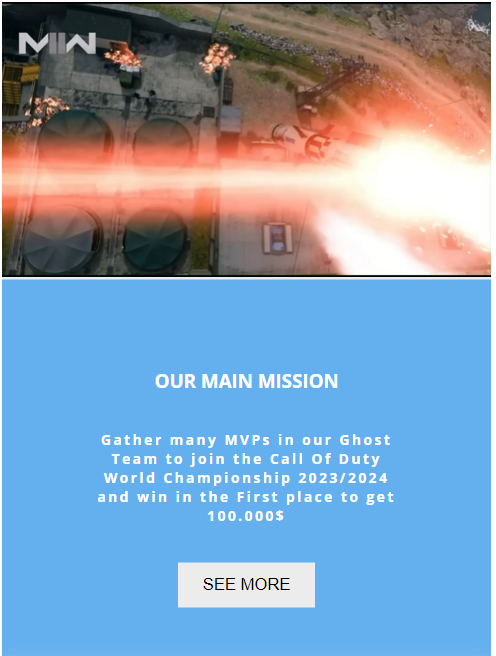
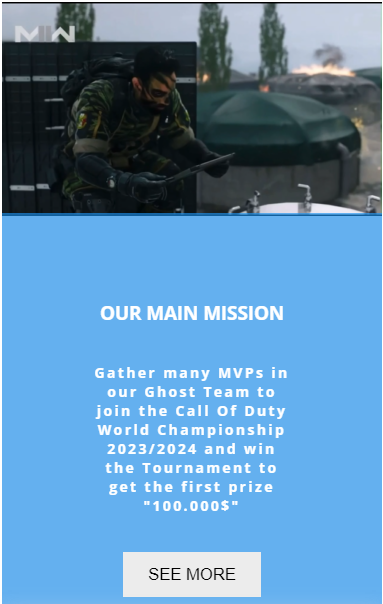
Edit in Mission page text, Edit readme file and add photos to readme-images file

diff --git a/missions.html b/missions.html
@@ -45,8 +45,8 @@
                 or below the video on small screens -->
         <div class="missions-text">
             <h2>our main mission</h2>
-            <p>Gather many MVPs in our Ghost Team to join the Call Of Duty World Championship 2023/2024 and win in
-                the First place to get 100.000$</p>
+            <p>Gather many MVPs in our Ghost Team to join the Call Of Duty World Championship 2023/2024 and win the Tournament
+                to get the first prize "100.000$"</p>
             <button onclick="alert('Thank You for Your Interaction!')">See More</button>
         </div>
     </section>

diff --git a/README.md b/README.md
@@ -1,11 +1,11 @@
-<h1 align="center"> Ghost Team Website!, Call Of Duty Game </h1>
-Ghost Team is a a real Team in Call of Duty Game, Germany. The Team has been a big part of Call of Duty World championships for many years, Also provides Most Valuable Players (MVPs) for all Call Of Duty events around the world.
+<h1 align="center">&#127918; Ghost Call Of Duty Team Website &#127918;</h1>
+Ghost Team is a real Team in Call of Duty game, Germany. The Team has been participating in all Call of Duty world championships for many years, Also it provides Most Valuable Players (MVPs) for all Call Of Duty events around the world.
 
-The intent of the website is to provides valuable information about Call of Duty Game to all players and COD lovers around the world, And last but not least, push the most valuable players to join Ghost team.
+The aim of the website is to provide valuable information about Call of Duty game to all players and COD lovers around the world, And last but not least, push the MVPs to join Ghost team.
 
 ![Site view across devices](assets/readme-images/ghost-team-responsive.png)
 
-The Ghost Team site is live, the link to which can be found by [CLICK HERE](https://alakeldev.github.io/ghost-cod-team-website-pp1/)
+The Ghost Team site is live, please [CLICK HERE](https://alakeldev.github.io/ghost-cod-team-website-pp1/) to check the website.
 
 ## Tabel of Contents
 - [Tabel of Contents](#tabel-of-contents)
@@ -46,37 +46,38 @@ The Ghost Team site is live, the link to which can be found by [CLICK HERE](http
 ## UX
 
 ### Site Purpose:
-To provide information about Call Of Duty Game, its events, updates, photos to everyone who is visiting the website, also push the most valuable players to join Ghost team that already has many Legendary titles.
+To provide information about Call Of Duty Game, its events, updates and photos to anyone visiting the website. Also to attract the most valuable players to join Ghost team which has alread gained many legendary titles.
 
 ### Site Goal:
-To regularly update our current team members and also the vistors with the latest game information, also provide them with new updates and events of Call Of Duty game. We Keep users coming back to regularly check on this valuable information and later for asking to join Ghost team.
+To regularly update our current team members and also the vistors with the latest game information, also provide them with new updates and events about Call Of Duty game. We Keep users coming back in order to check for those valuable information and have them at later stage joining our Ghost team.
 
 ### Audience:
-Everyone with a love to Call Of Duty game and wants to know all news about it, also willing to attend Call Of Duty events/championships to seek out winning and titles. Your target are all COD players/lovers (women & men) ages 18-35.
+Anyone who has interest in Call Of Duty game and wants to know all news about it. Also those who are willing to attend and participate Call Of Duty events and championships. Your targets are all COD players/lovers (women & men) ages 18-35.
 
 ### Communication:
-With a clear, animated and simple design, this information is readily available to all who visit the site. the user easy knows instantly where they are because of the good and clear website structure.As I mentioned the information is readily available, without having to go through an exhaustive search.
+With a clear, animated and simple design, this information is readily available to website visitors without having them forced to go through an exhaustive search. Also the user easy knows instantly where they are because of the good and clear website structure.
 
 ### Current User Goals:
-- To check Call of Duty last updates, versions, upcoming events and championships, also asking to join Ghost team.
+- To check Call of Duty last updates, versions, upcoming events and championships.
+- looking for new professional players to join our Ghost team.
 
 ### New User Goals:
 - To navigate the site with ease, animate design, simple & clearly understand the information that is being provided.
 - For the information to be always relevant & up-to-date.
-- To be inspired by a striking with animate design that captures my immediate interest, and keeps my focus on the site.
+- To simplify for them the game and show them its unique features comparing to other games.
 
 ## Design
 
 ### Colour Scheme:
-The colour palette was created by [Coolors](https://coolors.co) with the thought to provide as much contrast as possible, without feeling overwhelming. Most of the colour is primarily provided as a simple and calm across the site. However backgrounds were generated in two main colors ( calm gray, and white ) also the text has two main colors (black, sky calm blue) but some text has a one of gray degree color such as a paragraph in landing section and white color for the text inside missions page, also using black shadows with background white or even calm gray such as with photos section in gallery page. The combination of the background color and shadow color, does not overwhelm the user but give simple and stylish feeling. Also with a feature in navigation bar elements, when the cursor hover on each element, that will change the element color from black to calm blue with a very beatiful animation line will show above and below it to bring the users immediate attention to the fact that there is something there to be clicked.
+The colour palette was created by [Coolors](https://coolors.co) with the idea to provide as much contrast as possible, without feeling overwhelming. Most of the colors are primarily provided to be simple and calm across the site. However, backgrounds were generated in two main colors(calm gray and white) also the texts have two main colors (black and sky calm blue) but the paragraph text inside the landing section is having gray, while the text inside missions page is having white color. Also i'm using black shadows with white background and sometimes with calm gray backgrounds like the photos section in gallery page as an example. The combination of the background color and shadow color, does not overwhelm the user but give simple and stylish feeling. I added a feature in navigation bar elements, so when the user hovers over each nav element then the element color will change from black to calm blue, and the background of the same element will change at the same time from white to calm gray. Also simultaneously a very beatiful animation line will show above and below the same element to draw the users attention immediately to the fact that there is something there to be clicked.
 
 ![Colour Palette](assets/readme-images/website-colors.png)
 
 ### Typography:
-Open Sans was selected for the all Website pages as this font is a very famous, simple, readable and clear, also with manipulating between letters spacing and make it bold in some places make it looking great.
+"Open Sans" was selected for the all Website pages as this font is a very famous, simple, readable and clear. also I make the some words looking great by manipulating the space between letters and by making them bold in some other places.
 
 ### Imagery:
-All the imagery on the site, was sources from free gaming stock photo platforms. some photos in gallery section were readjust the brightness, exposure, contrast and shadows to make it more clear and modern to display it.
+All the images on the site were sourced from free gaming stock photo platforms. The brightness, exposure, contrast and shadows of some photos in gallery section were adjusted to make it more clear and modern for displaying.
 
 ## Features
 
@@ -87,58 +88,58 @@ This is included across all the four pages, and provides people with an easy ref
 ![Navigation bar](assets/readme-images/nav-bar.png)
 
 #### Landing Page:
-This defines the feel of the website, providing the user with an animated image goes up and down, and beside this photo there are main title and text that they can easily associate to what the Website is & does.
+It defines the soul of the website, providing the user with an animated image goes up and down, and beside this photo there are main title and text that be can easily associated to what the Website is about.
 
 ![Landing section](assets/readme-images/landing-sec.png)
 
-The upcoming events section is listed right beneath the landing section, its title has feautre of color changing between (black, sky calm blue) to make the visitor more excited. This section is to provide visitors with full information about Call of Duty events, and give important details such as locations, date/time, also other information to give possibility to the COD players and even normal vistor the early planning to attend, for each event has such a card and small arrow on it's footer, when the vistor hover the cursor on event's card the card will moving a littel bit up and the arrow on the card bottom the will start moving till the user move the cursor out of the card, these movings give the visitor good feeling and interact with events selection and if the visitor wants to see more details about the event, easly can click on read more.
+The upcoming events section is listed right beneath the landing section, its title has feautre of color changing between (black, sky calm blue) to make the visitor more excited. This section is to provide visitors with full information about Call of Duty events, and to give important details such as locations, date/time, also other information in order to enable the COD players and even normal vistors to plane their attend early. Each event designed as a card with a small arrow on the bottom of the card so when the vistor hover the cursor on event's card the card will be moving a littel bit up and the arrow on the card bottom of the card will start to move untill the user take the cursor out of the card. These movings give the visitors good feeling and push them to interact with events selection by easliy clicking on Read More link if the visitors want to see more details about that event.
 
 ![Upcoming events](assets/readme-images/evetns-section.png)
 
 #### Gallery Page:
-A big and color changing title has been installed at the top of the page, clearly reminding the users of the page's intent.
+The title of gallery page is big with color changing effect and installed at the top of the page to achieve the goal of reminding the users of the page's intent.
 
 ![Gallery title](assets/readme-images/gallery-title-photo.png)
 
-Next on this page is a Call of Duty photos with a creative decoration frame that changing it's colors and shows that the page are regularly updated with newest photos, as well as the small square decoration with color changing before first photo and after last photo. This start/end decorations will notify creativly the visitor that where the photos start and where will be end.
+Next on this page is a Call of Duty photos with a creative decoration frame that changes its colors and shows that the page is regularly updated with newest photos. Additionally there is one small square decoration with color changing effect before the first photo and another one after the last photo. The purpose fro those two decoration is to notify the visitor in a creative way about the start and the end of the photos.
 
 ![Gallery content](assets/readme-images/gallery-content.png)
 
 #### Missions Page:
-In this page we have an auto play video for the last version of Call of Duty Game, and the video was covered with a top dark layer as a decoration to make the video more elegant and also the main purpose is to make the text content above the video more clear and readable without feeling overwhelming.
+In this page we have an auto play video for the last version of Call of Duty Game, and the video was covered with a top dark layer as a decoration to make the video more elegant and mainly to make the text content above the video more clear and readable without being distracted.
 
 ![Missions content](assets/readme-images/missions-content-normal.png)
 
-The top layer will be disappear in mobile version because the text content will be under the video not above it, and the user can watch the video and read the text below it without any blurred.
+The top layer will disappear in the mobile version because the text content will be under the video not above it, and the user can watch the video and read the text below it without any distraction.
 
 ![Missions content](assets/readme-images/missions-content-mobile.png)
 
-The text section coming with sky calm blue background color and white font to make the user easy to read without make any annoy or non comfort. also provide a button (See More) with simple square design and gray background to guid the user for an external page to show a list of all missions.
+The background of the text section is coming in sky blue color with partially transparent and the font is white to make it easy for the user to read without any inconvenience. Also I provide a (See More) button designed as simple square with a gray background, guid the user for an external page in order to show the list of all missions.
 
 ![Text Missions](assets/readme-images/text-missions-content.png)
 
 #### Contact Page:
-A big and color changing title has been installed at the top of the page, clearly reminding the users of the page's intent.
+The title of contact page is big with color changing effect and installed at the top of the page to achieve the goal of reminding the users of the page's intent.
 
 ![Contact form title](assets/readme-images/contact-title.png)
 
-Once again I have kept the design simplistic. in this page there is a form so that visitors can reach out to Ghost team direct and write their request or messeges, also beside the form provides some information about Ghost team office location with phone numbers so the visitor can call or visit the office direct.
+Once again I have kept the design simple. In this page there is contact form so the visitors can reach out to Ghost team directly and write any requests or messeges. Also I provide beside the form some information about phone numbers and office location in case any visitor would like to be in touch directly with Ghost team.
 
 ![Contact form & office info](assets/readme-images/contact-content.png)
 
-A 'form dump' page has also been included upon the instruction of my mentor Martina who informed me that it was necessary if a form was added to the project. The form-dump page appears as follows...
+A 'thankYou' page has been also included as per the instruction of my mentor Martina who informed me about the necessisty of this page if a form was added to the project. 'thankYou' page appears as follows...
 
 ![Contact form, form dump page](assets/readme-images/dump-form.png)
 
 #### Footer and Social Links :
-The Footer also has simplistic design and contain only links to Ghost team social media pages, and each one will take the user to the social media platform being references.
+The Footer also has simple design and contains only links to Ghost team social media pages, where each Link will take the user to the social media platform as referred in the icon.
 
 ![Footer](assets/readme-images/footer-content.png)
 
 ### Future Features:
-- A map shows main live COD events/championhips locations in Europe.
-- Page for Ghost team members that showing all achievements in details.
-- A page for live broadcasts to all COD chammpionhips around the world.
+- A map shows the live locations for all COD events/championhips around the world.
+- A page to show all titles and tournaments achieved by Ghost team members in details.
+- A page for live broadcasting of all COD championships around the world.
 - Live chatbot.
 
 ## Testing
@@ -157,13 +158,15 @@ The Footer also has simplistic design and contain only links to Ghost team socia
   -  Result for contact.html
 
      ![W3C html validator Contact page](assets/readme-images/contact-checker.png)
+
 - CSS (By using [Jigsaw validator](https://jigsaw.w3.org/css-validator/))
   - Result for style.css
 
      ![Jigsaw validator message](assets/readme-images/css-checker.png)
-  - The Remaining warning mentioned that I have the same background color and foreground color 
-      in Gallery page contexts "but it not make negative effect or conflicut with the user interaction".
+  - The appearing warning mentioned that I have the same color for background and foreground(border) "but it is not making negative effect or conflict with the user interaction".
+
      ![Jigsaw validator warning message](assets/readme-images/warnings-css.png)
+
 - Lighthouse Testing (By using the Lighthouse feature of Google Chrome's Developer Tools)
   - Result for index.html
 
@@ -180,7 +183,7 @@ The Footer also has simplistic design and contain only links to Ghost team socia
 
 - Tested the site opens in MS edge, Chrome & Safari without issues.
 
-- All links open to external tabes as intended.
+- All links open to external page as intended.
 
 ### Unfixed Bugs
 
@@ -190,15 +193,15 @@ The Footer also has simplistic design and contain only links to Ghost team socia
 - CSS3
 
 ### Frameworks, Libraries & Programs Used
-- Google Fonts - for the font families: Open Sans. San-serif was used as a alt font.
+- Google Fonts - for the font families: "Open Sans" main font. San-serif was used as an alternative font.
 - Coolors - to explore different colour schemes that best matched with animated COD gaming team website.
-- Font Awesome - to add icons to the social links in the footer element and phone, pin location incons to Contact page.
+- Font Awesome - to add icons to the social links in the footer element. Also to add phone and pin location incons to Contact page.
 - VS-Code - to creat my html files & styling sheet before pushing the project to Github.
 - GitHub - to store my repository and deployed live link for submission.
-- Balsamiq-wireframes - was used to create a basic structure of the home page before I start 
+- Balsamiq-wireframes - was used to create a basic structure only for the home page before I start 
   initiate the project files & start to code.
-- Am I Responsive? - to ensure the project looked good across all devices.
-- Photo-movie-editor/Microsoft photos app - to readjust the video & images.
+- Am I Responsive? - to ensure the project is looked good across all devices.
+- Photo-movie-editor/Microsoft photos app - to adjust the video & images.
 
 ## Deployment
 ### How to deploy
@@ -219,25 +222,27 @@ The Footer also has simplistic design and contain only links to Ghost team socia
 ## Credits
 
 ### Content
-- My knowledge of implementation is more advanced because of my of my bachelor degree in IT, the initial set up & style was set close to my worked with previous projects in my university which is also similar to the 'Love Running' walk-through project. From there, I took inspiration for the design of the navigation bar, landing section,,,, along with the display of the social links in the footer element.
+- My knowledge the practical implementation is advanced because of my bachelor degree in IT. The initial set up & style are close to my previous projects during my university studies. and also they are similar to the 'Love Running' walk-through project. From there, I took inspiration for the design of the navigation bar, landing section.... along with the display of the social links in the footer.
 
-- The styling of the form element in 'Love Running' was used beside my previouse experince as a starting point for my form, but I never follow the steps of float property to arrange the element places on webpage becuase float is complex and not flexy. So I used to work with flexbox and grid as more easy to control the elements on webpage.
+- My previouse experince in addition to styling the form and gallery page in 'Love Running' project were used as the starting point for my form and gallery page. However I have applied flexbox and grid properties instead of using float property as I did in love running project. this is because of flexbox and grid are more easy to control the elements on my webpage while float is complicated and not flexible.
 
-- I follow my quote since my university study, that said when you start to build html page make sure to build a good structure with semantic elements and Div containers that will make you understand it very well and that will make for you more easy to initiate the correct properties to right targeted element.
+- The way which I have been always following since my studies at university is to start to build html page with good structure using semantic elements and Div containers that will make me understand my webpage very well then will lead me easily to initiate the correct properties to correct targeted element.
 
-- [W3Schools](https://www.w3schools.com/css/css3_mediaqueries.asp) website was used to remember some properites and the correct values range that I want to set in each property, so for me it's the main website after I finished from CSS and HTML curriculum on code-institute website as it helped me in many situations.
+- After finishing and completing html structure for each page, I opened the Google Chrome's Developer Tools and started to add properties there on html elements inorder to monitor the elements behaviour until I got the targeted one. After that should be copied and paste it in css file.
 
-- Most of issues that faced were in Media rules so I follow the way that feel me comfort and well code structured so I set for every element and sometimes in each section it's own media rules then test it and show how it's behaviours with elements page after that I moved to another element or section.
+- [W3Schools](https://www.w3schools.com/css/css3_mediaqueries.asp) This website helped me to remember some properties along with the correct values range of these properties. this website was the main support for me after I have finished the available material from Code Institute.
 
-- I used to read previouse posts on Slack Code-Institute Channels( PP1 / peer code review / my class channel too) these channels are showed old / previous issues that people faced with their code and some solutions provided from alumnis. these info and posts increase my knowledge because I love to read and search in Slack Channels even if i don't have issues with my website or code, because that will make me know more what others facing in their code, also sometimes I replied to them with my solution and see if I'm right or somebody will correct mine or provide another solution.
+- Most of the difficulties that I confronted with were in Media Rules. Therefore the way which i used to overcome these difficulties is to set for each element and sometimes for each section its own Media Rules. Then testing it before I add it and later to commit it.
 
-- I want to add small note that I played some online games that made me remember all the details/values inside flex and Grid properties with examples. These games are: [Mastery Games](https://mastery.games/post/flexboxzombies2/), [Grid Garden](https://cssgridgarden.com/), [Flex Froggy](https://flexboxfroggy.com/) and all very recommended to master these properties.
+- I used to read previouse posts on Slack Code-Institute Channels (PP1, peer code review, my class / Padawans group). These channels and Padawans group are showing past issues that others were facing with their codes in adition to some solutions suggested by alumnis. These info and posts increase my knowledge because I like to read and search in Slack Channels even if i don't have issues with my codes. Hence this will make me know more what others were facing in their codes and in some cases I got the chance to suggegst them my solution and see if it's wrong or correct.
+
+- I want to add small note that I played some online games which made me remember all the Situations, details and values inside flexbox and Grid properties with examples. These games are: [Mastery Games](https://mastery.games/post/flexboxzombies2/), [Grid Garden](https://cssgridgarden.com/),and [Flex Froggy](https://flexboxfroggy.com/). "I highly recommend these games to anyone who would like to master flexbox and grid properties".
 
 ### Media
-- Missions Video is From ["Call of Duty Youtube Video"](https://youtu.be/MbbDADY4GTA)
+- The video inside Missions page is From ["Call of Duty Youtube"](https://youtu.be/MbbDADY4GTA)
 
-- The website images came from hdqwalls website, games section, Call of Duty game: [Call Of Duty Images](https://hdqwalls.com/call-of-duty-mobile-2019-wallpaper)
+- The Website images came from hdqwalls website inside games section, Call of Duty game: [Call Of Duty Images](https://hdqwalls.com/call-of-duty-mobile-2019-wallpaper)
 
 ### Acknowledgements
 
-- I want to say thank you to my mentor Martina, who consistently gave me good advices and helped me keep things in perspective throughout the project.
+- I want to say thank you to my mentor Martina, who consistently gave me good advices and helped me to keep the project within the prospective guidelines.
